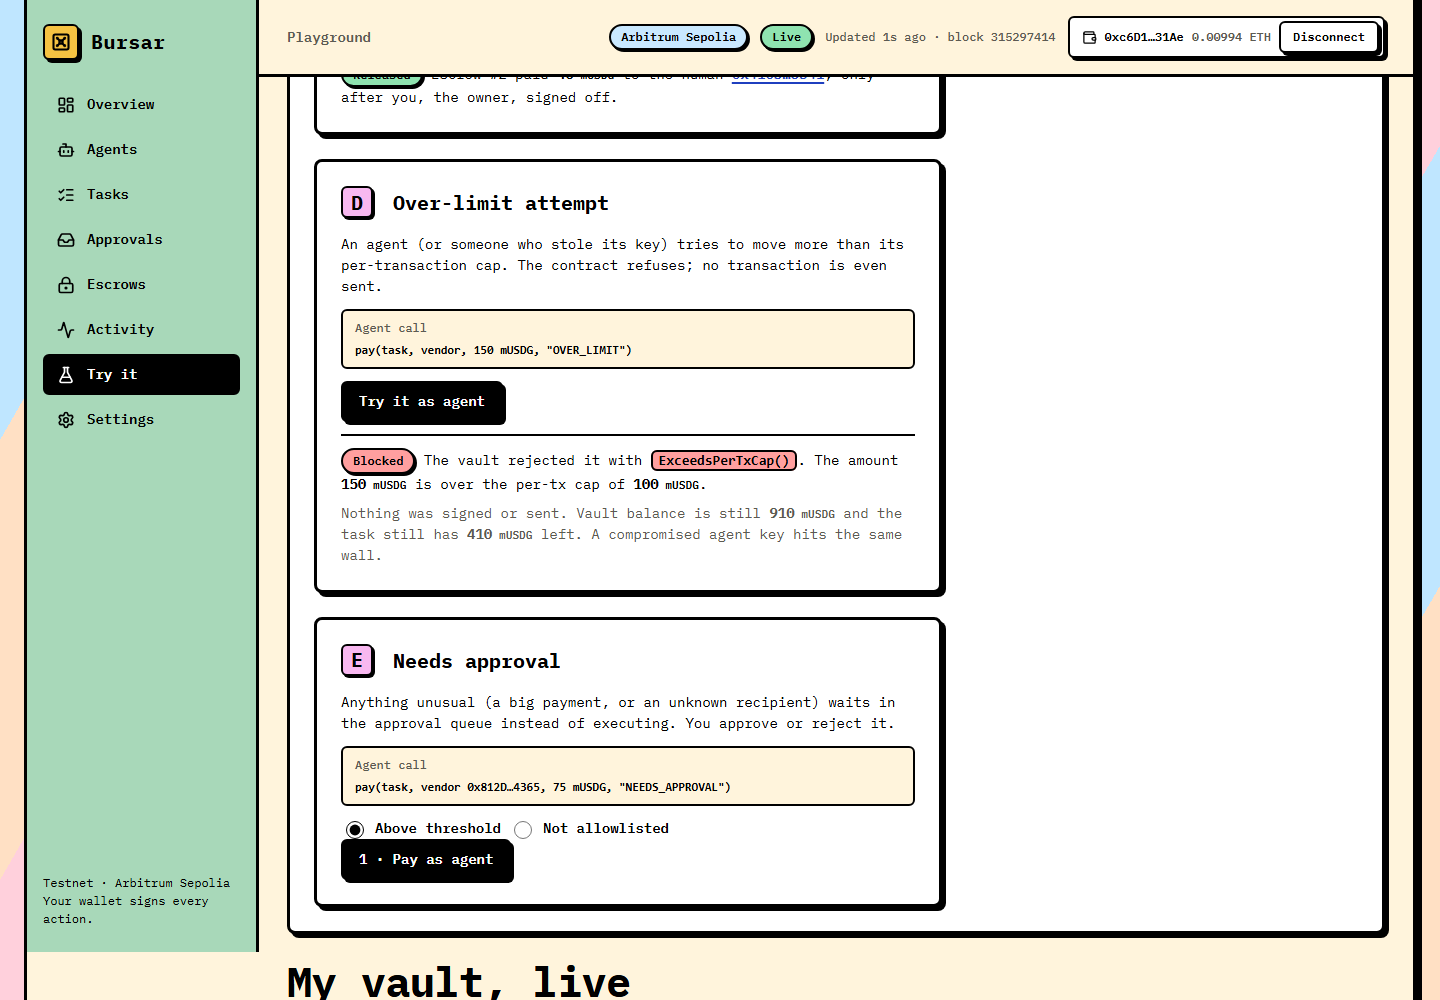
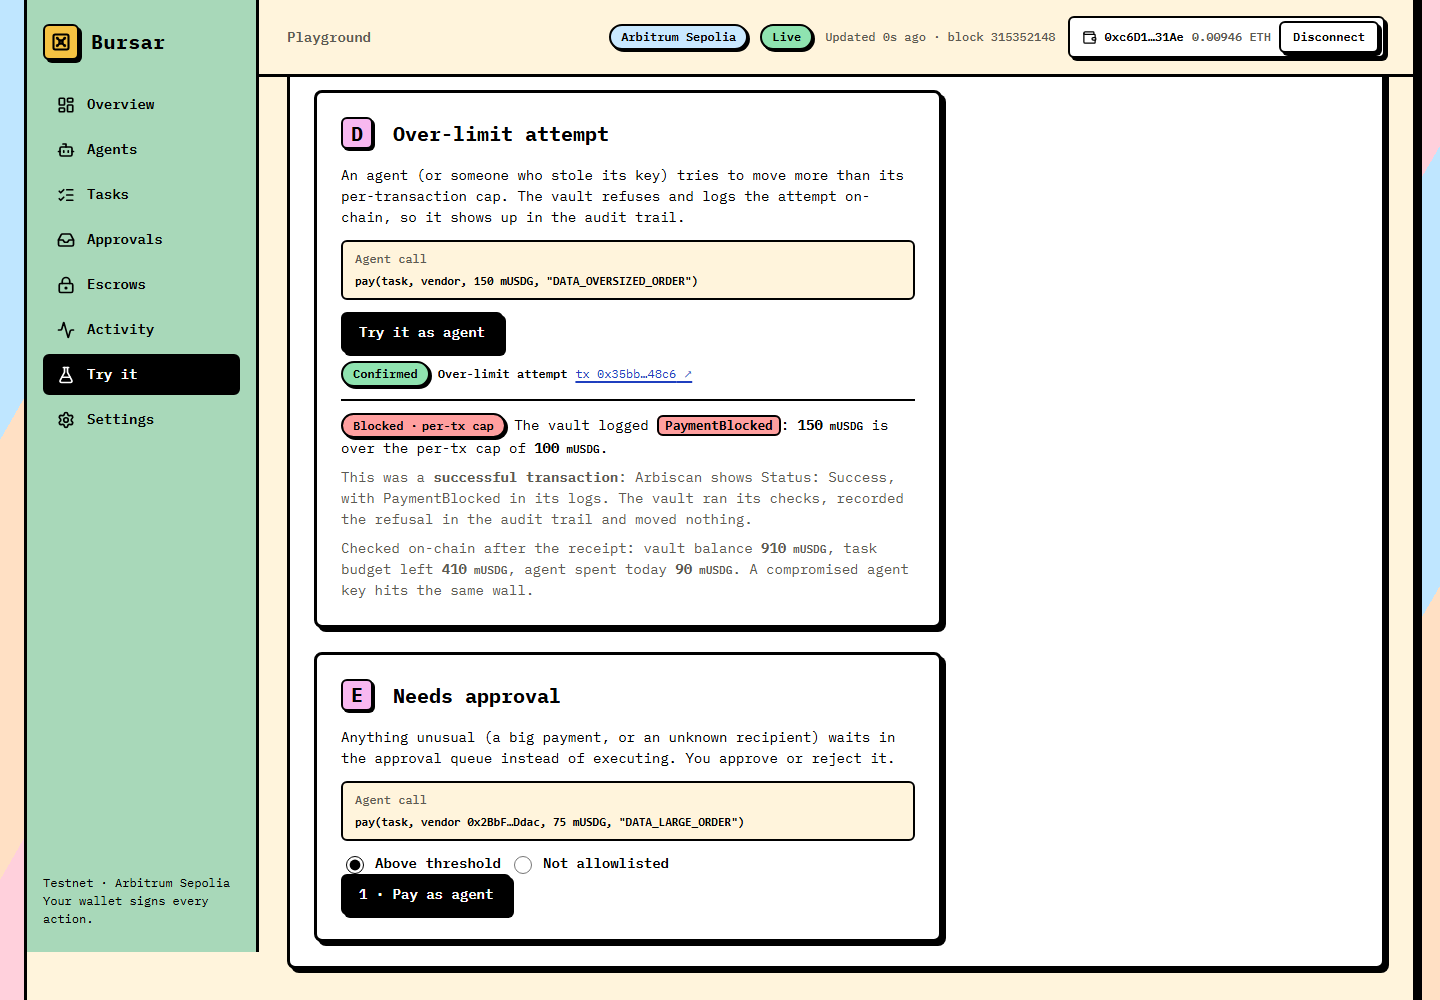
Phase 3: playground on the v2 factory, real blocked tx, prefixed reason codes
- Scenario D sends the over-limit payment for real, decodes PaymentBlocked and
  its cause from the receipt, explains Status: Success, and re-reads balance,
  task budget and daily spend on-chain to prove nothing moved
- Reason codes DATA_PURCHASE / SUBAGENT_HIRE / HUMAN_BOUNTY / DATA_OVERSIZED_ORDER
  / DATA_LARGE_ORDER / API_UNKNOWN_VENDOR so use-case chips show
- stage-c e2e: vault from the v2 factory, 17 UI txs, blocked receipt checked for
  a PaymentBlocked log; screenshots refreshed

Changed region(s): [[0.1875, 0.062, 0.9688, 1.0]]

diff --git a/web/src/components/playground/Scenarios.tsx b/web/src/components/playground/Scenarios.tsx
@@ -2,11 +2,12 @@
 // demonstrates, runs it (simulate -> sign -> confirm) and shows the decoded on-chain result.
 import { useState, type ReactNode } from "react";
 import { parseEventLogs, stringToHex, type Address, type Hex, type TransactionReceipt } from "viem";
-import { vaultAbi } from "../../abi";
-import { parseAddress } from "../../lib/chain";
+import { tokenAbi, vaultAbi } from "../../abi";
+import { client, parseAddress } from "../../lib/chain";
+import { blockCauseLabel } from "../../lib/labels";
 import { formatAmount, shortAddr } from "../../lib/format";
 import type { DemoAddresses } from "../../lib/playground";
-import { simulateOnly, useTx, type ContractCall } from "../../lib/tx";
+import { useTx } from "../../lib/tx";
 import { Badge, Button, Card } from "../ds";
 import { Addr, Amount, VaultAction, type VaultCtx } from "../vault/panels";
 import { Field, TxStatusLine } from "../web3";
@@ -49,7 +50,7 @@ function BuyData({ ctx, task, addrs }: { ctx: VaultCtx; task: Task; addrs: DemoA
   const tx = useTx(() => ctx.refresh());
   async function run() {
     setResult(null);
-    const r = await tx.run("Buy data", { address: d.vault, abi: vaultAbi, functionName: "pay", args: [task.id, addrs.vendor, amount, reason("BUY_DATA")] });
+    const r = await tx.run("Buy data", { address: d.vault, abi: vaultAbi, functionName: "pay", args: [task.id, addrs.vendor, amount, reason("DATA_PURCHASE")] });
     if (!r) return;
     const ev = vaultEvents(r);
     const paid = ev.find((e) => e.eventName === "PaymentExecuted");
@@ -75,7 +76,7 @@ function BuyData({ ctx, task, addrs }: { ctx: VaultCtx; task: Task; addrs: DemoA
       letter="A"
       title="Buy data"
       demonstrates={<>A routine purchase inside every limit executes instantly. This is the autonomy you <em>do</em> want.</>}
-      call={<>pay(task, vendor {shortAddr(addrs.vendor)}, {formatAmount(amount, d.token.decimals)} {d.token.symbol}, "BUY_DATA")</>}
+      call={<>pay(task, vendor {shortAddr(addrs.vendor)}, {formatAmount(amount, d.token.decimals)} {d.token.symbol}, "DATA_PURCHASE")</>}
     >
       <div className="ds-actions">
         <Button onClick={run} disabled={tx.busy} data-testid="run-a">Run as agent</Button>
@@ -176,41 +177,57 @@ function OverLimit({ ctx, task, addrs }: { ctx: VaultCtx; task: Task; addrs: Dem
   const policy = d.agents.find((a) => a.address === ctx.account)!.policy;
   const amount = policy.perTxCap + 50n * UNIT(d);
   const [result, setResult] = useState<ReactNode>(null);
-  const [busy, setBusy] = useState(false);
+  const tx = useTx(() => ctx.refresh());
+
   async function run() {
-    setBusy(true);
     setResult(null);
-    const before = { balance: d.balance, remaining: task.remaining };
-    const call: ContractCall = { address: d.vault, abi: vaultAbi, functionName: "pay", args: [task.id, addrs.vendor, amount, reason("OVER_LIMIT")] };
-    const err = await simulateOnly(ctx.account!, call);
-    setBusy(false);
+    const before = { balance: d.balance, remaining: task.remaining, spent: d.agents.find((a) => a.address === ctx.account)!.spentToday };
+    const r = await tx.run("Over-limit attempt", {
+      address: d.vault, abi: vaultAbi, functionName: "pay", args: [task.id, addrs.vendor, amount, reason("DATA_OVERSIZED_ORDER")],
+    });
+    if (!r) return; // a pre-v2 vault reverts with ExceedsPerTxCap(): the status line shows the decoded name
+    const ev = vaultEvents(r).find((e) => e.eventName === "PaymentBlocked");
+    if (!ev || !("cause" in ev.args)) {
+      setResult(<div className="scenario__result" data-testid="result-d"><p>Unexpected: no PaymentBlocked event in the receipt.</p></div>);
+      return;
+    }
+    // Re-read from the chain right after the receipt: nothing may have moved.
+    const [balance, t, spent] = await Promise.all([
+      client.readContract({ address: d.token.address, abi: tokenAbi, functionName: "balanceOf", args: [d.vault] }),
+      client.readContract({ address: d.vault, abi: vaultAbi, functionName: "getTask", args: [task.id] }),
+      client.readContract({ address: d.vault, abi: vaultAbi, functionName: "spentToday", args: [ctx.account!] }),
+    ]);
+    const unchanged = balance === before.balance && t.remaining === before.remaining && spent === before.spent;
     setResult(
-      err?.errorName ? (
-        <div className="scenario__result scenario__result--blocked" data-testid="result-d">
-          <p>
-            <Badge tone="blocked">Blocked</Badge> The vault rejected it with <code className="tx-status__error" data-testid="result-d-error">{err.errorName}()</code>. The amount <Amount raw={amount} d={d} /> is over the per-tx cap of <Amount raw={policy.perTxCap} d={d} />.
-          </p>
-          <p className="ds-muted">
-            Nothing was signed or sent. Vault balance is still <Amount raw={before.balance} d={d} /> and the task still has <Amount raw={before.remaining} d={d} /> left. A compromised agent key hits the same wall.
-          </p>
-        </div>
-      ) : (
-        <div className="scenario__result" data-testid="result-d">
-          <p>{err ? err.error : "Unexpected: the simulation passed."}</p>
-        </div>
-      ),
+      <div className="scenario__result scenario__result--blocked" data-testid="result-d">
+        <p>
+          <Badge tone="blocked">Blocked · <span data-testid="result-d-cause">{blockCauseLabel(Number(ev.args.cause))}</span></Badge>{" "}
+          The vault logged <code className="tx-status__error" data-testid="result-d-event">PaymentBlocked</code>: <Amount raw={amount} d={d} /> is over the per-tx cap of{" "}
+          <Amount raw={policy.perTxCap} d={d} />.
+        </p>
+        <p className="ds-muted">
+          This was a <strong>successful transaction</strong>: Arbiscan shows Status: Success, with PaymentBlocked in its logs. The vault ran its checks,
+          recorded the refusal in the audit trail and moved nothing.
+        </p>
+        <p className="ds-muted" data-testid="result-d-unchanged" data-unchanged={unchanged}>
+          {unchanged ? "Checked on-chain after the receipt: " : "Warning, state changed: "}vault balance <Amount raw={balance} d={d} />, task budget left{" "}
+          <Amount raw={t.remaining} d={d} />, agent spent today <Amount raw={spent} d={d} />. A compromised agent key hits the same wall.
+        </p>
+      </div>,
     );
   }
+
   return (
     <ScenarioCard
       letter="D"
       title="Over-limit attempt"
-      demonstrates={<>An agent (or someone who stole its key) tries to move more than its per-transaction cap. The contract refuses; no transaction is even sent.</>}
-      call={<>pay(task, vendor, {formatAmount(amount, d.token.decimals)} {d.token.symbol}, "OVER_LIMIT")</>}
+      demonstrates={<>An agent (or someone who stole its key) tries to move more than its per-transaction cap. The vault refuses and logs the attempt on-chain, so it shows up in the audit trail.</>}
+      call={<>pay(task, vendor, {formatAmount(amount, d.token.decimals)} {d.token.symbol}, "DATA_OVERSIZED_ORDER")</>}
     >
       <div className="ds-actions">
-        <Button onClick={run} disabled={busy} data-testid="run-d">{busy ? "Simulating…" : "Try it as agent"}</Button>
+        <Button onClick={run} disabled={tx.busy} data-testid="run-d">Try it as agent</Button>
       </div>
+      <TxStatusLine state={tx.state} />
       {result}
     </ScenarioCard>
   );
@@ -233,7 +250,7 @@ function NeedsApproval({ ctx, task, addrs }: { ctx: VaultCtx; task: Task; addrs:
 
   async function run() {
     setRequestId(null);
-    const r = await tx.run("Needs approval", { address: d.vault, abi: vaultAbi, functionName: "pay", args: [task.id, to, amount, reason("NEEDS_APPROVAL")] });
+    const r = await tx.run("Needs approval", { address: d.vault, abi: vaultAbi, functionName: "pay", args: [task.id, to, amount, reason(mode === "threshold" ? "DATA_LARGE_ORDER" : "API_UNKNOWN_VENDOR")] });
     if (!r) return;
     const ev = vaultEvents(r).find((e) => e.eventName === "PaymentQueued");
     if (ev && "id" in ev.args) setRequestId(ev.args.id as bigint);
@@ -244,7 +261,7 @@ function NeedsApproval({ ctx, task, addrs }: { ctx: VaultCtx; task: Task; addrs:
       letter="E"
       title="Needs approval"
       demonstrates={<>Anything unusual (a big payment, or an unknown recipient) waits in the approval queue instead of executing. You approve or reject it.</>}
-      call={<>pay(task, {mode === "threshold" ? "vendor" : "unknown"} {shortAddr(to)}, {formatAmount(amount, d.token.decimals)} {d.token.symbol}, "NEEDS_APPROVAL")</>}
+      call={<>pay(task, {mode === "threshold" ? "vendor" : "unknown"} {shortAddr(to)}, {formatAmount(amount, d.token.decimals)} {d.token.symbol}, "{mode === "threshold" ? "DATA_LARGE_ORDER" : "API_UNKNOWN_VENDOR"}")</>}
     >
       <div className="ds-actions" role="radiogroup" aria-label="Why it needs approval">
         <label className="ds-check">
@@ -311,7 +328,7 @@ export function Scenarios({ ctx, task, addrs, updateAddrs }: {
         payeeLabel="Sub-agent"
         amount={minBig(policy.perTxCap, 30n * unit)}
         deadlineSecs={3600}
-        code="SUB_AGENT"
+        code="SUBAGENT_HIRE"
         testId="b"
       />
       <EscrowScenario
@@ -324,7 +341,7 @@ export function Scenarios({ ctx, task, addrs, updateAddrs }: {
         payeeLabel="Human"
         amount={minBig(policy.perTxCap, 40n * unit)}
         deadlineSecs={86400}
-        code="BOUNTY"
+        code="HUMAN_BOUNTY"
         testId="c"
         editablePayee
         onPayee={(v) => updateAddrs({ human: v })}

diff --git a/web/README.md b/web/README.md
@@ -84,7 +84,9 @@ Destructive actions (pause, revoke, close task) ask for a second click to confir
 
 ## Playground (Stage C, `/try`)
 
-A **testnet sandbox with a mock token and no real funds**, where a visitor drives their own vault with their own wallet. The deployer's demo vault is never touched from here.
+A **testnet sandbox with a mock token and no real funds**, where a visitor drives their own vault with their own wallet. Vaults are created through the current (v2) factory. The deployer's demo vault is never touched from here.
+
+Scenario reason codes use the label prefixes (`DATA_PURCHASE`, `SUBAGENT_HIRE`, `HUMAN_BOUNTY`, `DATA_OVERSIZED_ORDER`, `DATA_LARGE_ORDER`, `API_UNKNOWN_VENDOR`), so the dashboard's use-case chips apply.
 
 1. **Connect:** connect and switch network. The page shows your ETH balance, with faucet links if it's below 0.0005 ETH.
 2. **Create and fund:** create your own vault through `BursarFactory.createVault(MockUSDG)`, mint mock USDG to yourself, then approve and deposit. Your vaults are listed from the factory (`vaultsOf`), and the last one you used is remembered in localStorage, so you can come back to it.
@@ -93,7 +95,7 @@ A **testnet sandbox with a mock token and no real funds**, where a visitor drive
    - **A. Buy data:** a direct payment within every limit.
    - **B. Hire a sub-agent:** an escrow to another address, then released by you as owner.
    - **C. Pay a human bounty:** an escrow to a person (editable address), released when you approve the work.
-   - **D. Over-limit attempt:** above the per-tx cap. Simulated first and shown as blocked with `ExceedsPerTxCap()`; nothing is signed or sent.
+   - **D. Over-limit attempt:** above the per-tx cap. Sent as a real transaction: the v2 vault logs `PaymentBlocked` (cause shown, e.g. per-tx cap) and moves nothing. Arbiscan shows it as a successful transaction with the event in its logs; the card re-reads the vault balance, task budget and daily spend from the chain to prove nothing changed.
    - **E. Needs approval:** above the threshold, or to a non-allowlisted address. It lands in the approval queue, and you approve or reject it.
 
 Your vault's live state (balances, policy, task budget, queue, escrows, activity) sits next to the scenarios. Scenario amounts are derived from your current policy.
